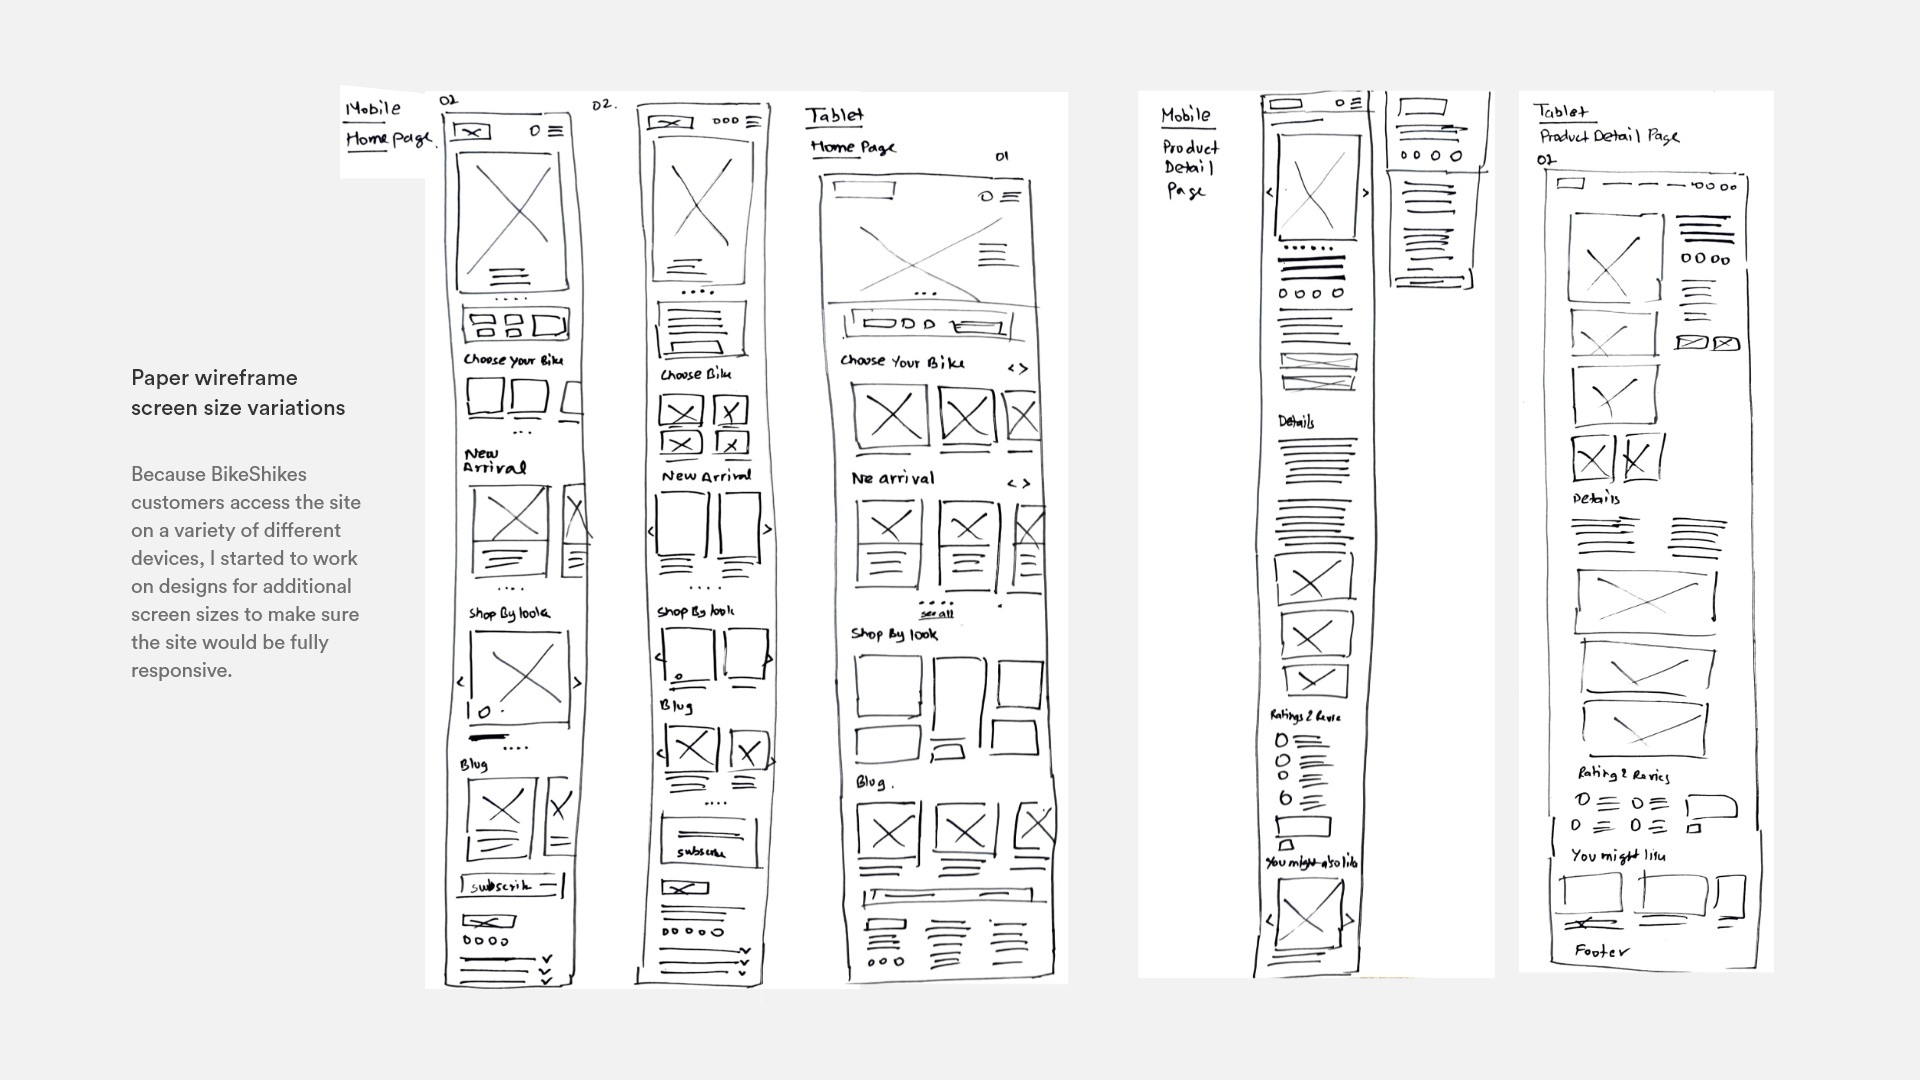
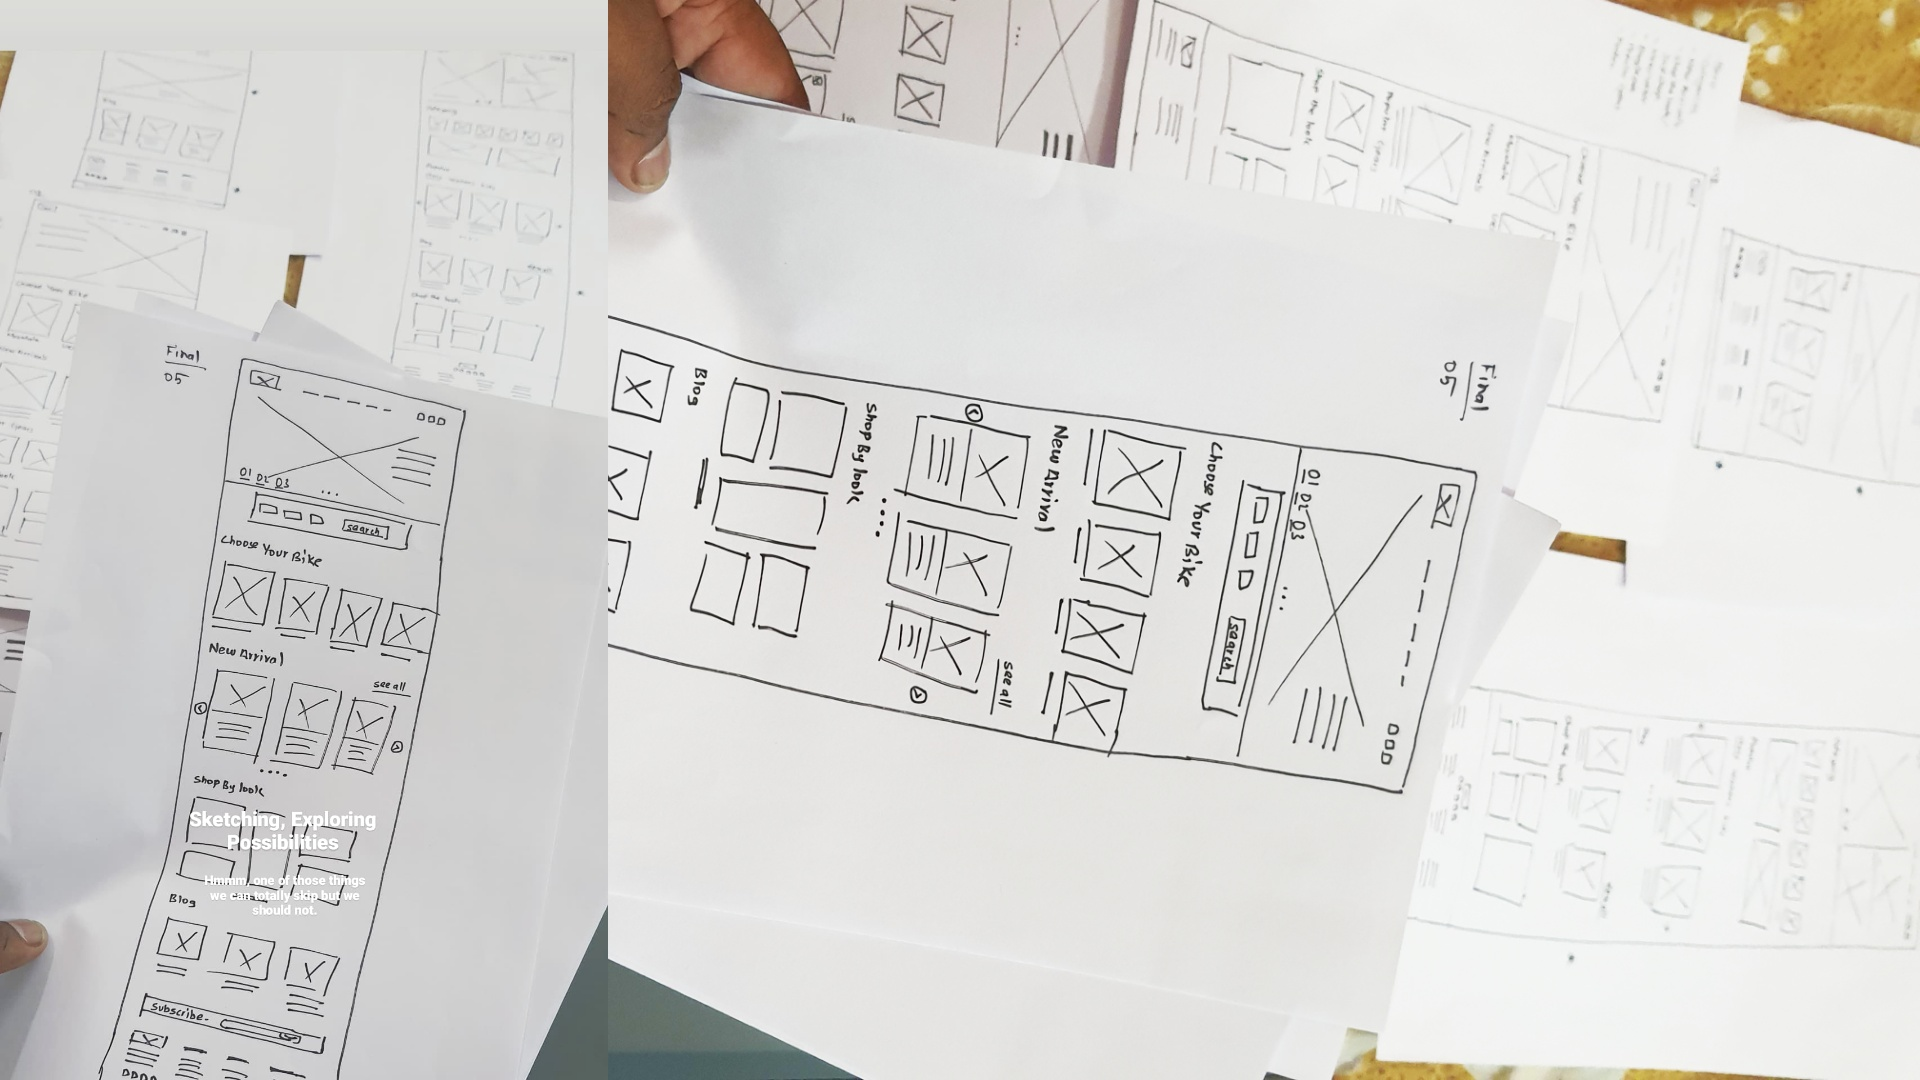
More section added

diff --git a/pages/projects/bikeshikes-ecommerce.vue b/pages/projects/bikeshikes-ecommerce.vue
@@ -288,60 +288,14 @@ to able to focus on his health and fitness and also remain worry free from unwan
 
   
 
-    <!-- Backstory -->
+
+
 
     <pcase
-      heading="Challenge 🥴 "
-      para="Well, the most challenging part was the make the event portal feel like the part of feeding Trends,
-        and yet make it different. Got it! I hope mot. Well me too. Because Feeding Trends have a already existing website and brand guidelines.
-        It was really challenging. The existing website and the event portal have different purpose and target user. 
-        "
-      theme="theme_bikeshikes"
-    />
-
-    <!--       When we work on something that we have to decide on our own about every aspects of a product. It gets more challenging than ever.
-      Then we are in constant dilemma of this or that. Iteration seems to never stop. Its get frustrating.
-      Though we are not restricted by anything, its also fun and our mind happen to work round the clock to make decisions.
-
-        <br> <br>Making something stand out and gives a feel of creativity and wowness. 
-        was cool for the moment but that can not be used to used on web.
-    <br>3. No copywrite, no information architecture."-->
-
-    <p class="contain just-para black90">
-      Also, there is many competitor in the same niche, and i was not easy to have something that is similar yet
-      simple and intuitive and make user come to website and let them discover events and book tickets.
-    </p>
-
-    <!-- <img
-        class="p-image-100"
-        src="~assets/projects/ft-event/ft-event-mockup-web1.jpg"
-        alt="ft-event web mockup"
-    />-->
-    <!-- Ideation and Research -->
-
-    <pcase
-      class="ft-event-research-sec"
-      heading="Ideation and Research"
-      para="After some deep research and coming with a strategy of monetizing the same and the discussing all the
-        possible scenario how a user will interact with the website. We came up with website architecture and site map.
-        
-        <br><br>
-        On our past experience, the problem and challenges faced during making feedingtrends content website, 
-        We decided to follow google material guidelines and so that development and design can go long way and we can easily
-        implement a functional even website.
-        
-        "
-      theme="theme_bikeshikes"
-    />
-
-    <pcase
-      heading="Design Sprint"
-      para="After the initial findings and research, I decided to coordinate a Google Design Sprint to get the team aligned
-      on how we could get our users to share event on other existing platform and make the whole experience as intuitive as possible.
-      I was able to get folks from product, engineering, customer success, and marketing in a room for 5 days.
-        <br><br>
-        Together we ideated, sketched, discussed, designed, and tested our concept with customers to get concrete data.
-        
+      heading="Paper wireframes"
+      para="Next, I sketched out paper wireframes for each screen,
+      keeping the user pain points about navigation, browsing, and
+      checkout flow in mind.
         "
       theme="theme_bikeshikes"
     />
@@ -351,7 +305,7 @@ to able to focus on his health and fitness and also remain worry free from unwan
         <div class="slide">
           <img
             class="slide-img"
-            src="~assets/projects/ft-event/ft-events-ideation-1.jpg"
+            src="~assets/projects/bikeshikes-ecommerce/bikeshikes-paper-wireframe-1.jpg"
             alt="feeding trends ideation"
           />
         </div>
@@ -359,95 +313,182 @@ to able to focus on his health and fitness and also remain worry free from unwan
         <div class="slide">
           <img
             class="slide-img"
-            src="~assets/projects/ft-event/ft-events-ideation-2.jpg"
+            src="~assets/projects/bikeshikes-ecommerce/bikeshikes-paper-wireframe-2.jpg"
             alt="feeding trends ideation"
           />
         </div>
+        <div class="slide">
+          <img
+            class="slide-img"
+            src="~assets/projects/bikeshikes-ecommerce/bikeshikes-paper-wireframe-3.jpg"
+            alt="feeding trends ideation"
+          />
+        </div>
+        <div class="slide">
+          <img
+            class="slide-img"
+            src="~assets/projects/bikeshikes-ecommerce/bikeshikes-paper-wireframe-4.jpg"
+            alt="feeding trends ideation"
+          />
+        </div>
+        
       </agile>
     </client-side>
 
     <div class="p-quote contain red">
       <blockquote>
-        Is it the right page? Does the page have the content which I am looking for?
-        Do they have anything better, if this is not what I’m looking for? What is expected of me now?
+        Paper wireframes served multiple purpose here, it helped me to connect the
+        site's information architecture to its visual design by showing
+        paths between pages. Clarify consistent ways for displaying particular
+        types of information on the user interface. Determine intended
+        functionality in the interface. 
       </blockquote>
     </div>
 
-    <p class="contain just-para black90">
-      I asked these questions again and again, discussed it, researched existing solutions, came up with different possibilities. Started
-      designing UI in XD which I was sure of and as I got further, things got easier and easier.
+
+    <!-- Digital Wireframe -->
+
+      <pcase
+      heading="Digital wireframes"
+      para="Moving from paper to digital wireframes made it easy
+      to understand how the redesign could help address user pain
+      points and improve the user experience. Prioritizing useful button
+      locations and visual element placement on the home page was a key part
+      of my strategy.
+
+      "
+      theme="theme_bikeshikes"
+    />
+  
+ <div class="p-image-100-duo">
+        <div class="reveal-holder" data-aos="fade-up" data-aos-once="true">
+          <div class="reveal-block right" data-aos="reveal-right" data-aos-once="true"></div>
+  
+          <picture>
+            <source
+              media="(max-width: 600px)"
+              srcset="~assets/projects/salesfactory/salesfactoryl-colors-typo-mobile.jpg"
+            />
+            <img src="~assets/projects/bikeshikes-ecommerce/bikeshikes-digital-wireframe-1.jpg" />
+          </picture>
+          <!-- <p class="ps black70">Homepage Digital Wireframe</p> -->
+        </div>
+      </div>
+
+<br></br>
+<br></br>
+
+ <p class="contain just-para black90">
+      Here I have shown all the wireframe that was necessary to make for the user journey 
+      to complete and so that later on I can do usability test connecting all these low fidelity
+      digital wireframe.
     </p>
-    <!-- Art direction Design-->
 
-    <div class="p-image-100-duo">
-      <div class="reveal-holder" data-aos="fade-up" data-aos-once="true">
-        <div class="reveal-block right" data-aos="reveal-right" data-aos-once="true"></div>
-        <picture>
-          <img
-            src="~assets/projects/ft-event/ft-event-user-personas.jpg"
-            alt="user personas for event"
-          />
-          <p class="ps black90">User Personas</p>
-        </picture>
+ <div class="p-image-100-duo">
+        <div class="reveal-holder" data-aos="fade-up" data-aos-once="true">
+          <div class="reveal-block right" data-aos="reveal-right" data-aos-once="true"></div>
+  
+          <picture>
+            <source
+              media="(max-width: 600px)"
+              srcset="~assets/projects/salesfactory/salesfactoryl-colors-typo-mobile.jpg"
+            />
+            <img src="~assets/projects/bikeshikes-ecommerce/bikeshikes-digital-wireframe-all.jpg" />
+          </picture>
+          <!-- <p class="ps black70">Homepage Digital Wireframe</p> -->
+        </div>
       </div>
-    </div>
 
-    <pcase
-      heading="THREE USER TYPES"
-      para="On our research and findings we concluded that the portal will have 3 user types i.e. Normal visitor, event creator, admin. Normal Users (Who is going ti visit the website and buy
-      tickets for events), Creator (Who will publish event thorough our platform), and then Admin(who will
-      manage the event listing, tickets sale authorize users and curators). <br><br>
-        Each role has different objectives and even slightly different experiences.
-        <br>
-        <br>
 
-         We came up with a simple habit loop. Discover, Share with friends, Book ticket for them, Go to event, Repeat.
-      "
-      theme="theme_bikeshikes"
-    />
+<!-- Low fi fidelity prototype -->
 
-    <div class="p-image-100-duo">
-      <div class="reveal-holder" data-aos="fade-up" data-aos-once="true">
-        <div class="reveal-block right" data-aos="reveal-right" data-aos-once="true"></div>
-        <picture>
-          <img
-            src="~assets/projects/ft-event/ft-site-architecture.jpg"
-            alt="website architecture, website user journey"
-          />
-          <p class="ps black90">Site architecture</p>
-        </picture>
-      </div>
-    </div>
+      <pcase
+      heading="Low-fidelity prototype"
+      para="To create a low-fidelity prototype, I connected all of the
+      screens involved in the primary user flow of adding an item to the
+      cart and checking out.
+      <br>
 
-    <pcase
-      heading="Normal Visitor or user"
-      para="Normal user who will visit the website where he/she will browse through listed event. Select a event, will 
-      create an account and buy tickets using payment portal. His tickets details will be added to his user profile dashboard.
-     
-
+      At this point, I had received feedback on my designs from my peers
+      and other visual designers about things like placement of buttons
+      and page organization. I made sure to listen to their feedback,
+      and I implemented several suggestions in places that addressed user pain points.
+      
 
       "
       theme="theme_bikeshikes"
     />
+  
 
-    <div class="p-image-100-duo">
-      <div class="reveal-holder" data-aos="fade-up" data-aos-once="true">
-        <div class="reveal-block right" data-aos="reveal-right" data-aos-once="true"></div>
-        <picture>
-          <img src="~assets/projects/ft-event/ft-event-habit-loop.svg" alt="user habit lopp" />
-          <p class="ps black90">Normal user habit loop</p>
-        </picture>
+   <div class="p-image-100-duo">
+        <div class="reveal-holder" data-aos="fade-up" data-aos-once="true">
+          <div class="reveal-block right" data-aos="reveal-right" data-aos-once="true"></div>
+  
+          <picture>
+            <source
+              media="(max-width: 600px)"
+              srcset="~assets/projects/salesfactory/salesfactoryl-colors-typo-mobile.jpg"
+            />
+            <img src="~assets/projects/bikeshikes-ecommerce/bikeshikes-digital-wireframe-prototype.jpg" />
+          </picture>
+          <p class="ps black70">Low-fidelity prototype Page connection in Adobe XD</p>
+        </div>
       </div>
-    </div>
 
     <pcase
-      heading="The Creator Experience"
+      heading="Usability study"
+      para="To create a low-fidelity prototype, I connected all of the screens
+      involved in the primary user flow of adding an item to the cart and checking out.
+
+      At this point, I had received feedback on my designs from my peers
+      and other visual designers about things like placement of buttons
+      and page organization. I made sure to listen to their feedback,
+      and I implemented several suggestions in places that addressed
+      user pain points. 
+      "
+      theme="theme_bikeshikes"
+    />
+
+ <div class="p-image-100-duo">
+        <div class="reveal-holder" data-aos="fade-up" data-aos-once="true">
+          <div class="reveal-block right" data-aos="reveal-right" data-aos-once="true"></div>
+  
+          <picture>
+            <source
+              media="(max-width: 600px)"
+              srcset="~assets/projects/salesfactory/salesfactoryl-colors-typo-mobile.jpg"
+            />
+            <img src="~assets/projects/bikeshikes-ecommerce/usability-study-parameters.jpg" />
+          </picture>
+          <!-- <p class="ps black70">Low-fidelity prototype Page connection in Adobe XD</p> -->
+        </div>
+      </div>
+
+    <pcase
+      heading="Usability study: findings"
       para="The event creator is the Entertainment Provider in a sense. They Choose what type of
         event are they organizing, what are their possible audience,  and push the event to audience.
         They can see the performance of their event, Sales record etc. on the ft event website.
       "
       theme="theme_bikeshikes"
     />
+
+     <div class="p-image-100-duo">
+        <div class="reveal-holder" data-aos="fade-up" data-aos-once="true">
+          <div class="reveal-block right" data-aos="reveal-right" data-aos-once="true"></div>
+  
+          <picture>
+            <source
+              media="(max-width: 600px)"
+              srcset="~assets/projects/salesfactory/salesfactoryl-colors-typo-mobile.jpg"
+            />
+            <img src="~assets/projects/bikeshikes-ecommerce/usability-study-findings.jpg" />
+          </picture>
+          <!-- <p class="ps black70">Low-fidelity prototype Page connection in Adobe XD</p> -->
+        </div>
+      </div>
+
+
     <pcase
       heading="The Admin Experience"
       para="Admins at the company are then able to dig into demographic insights
